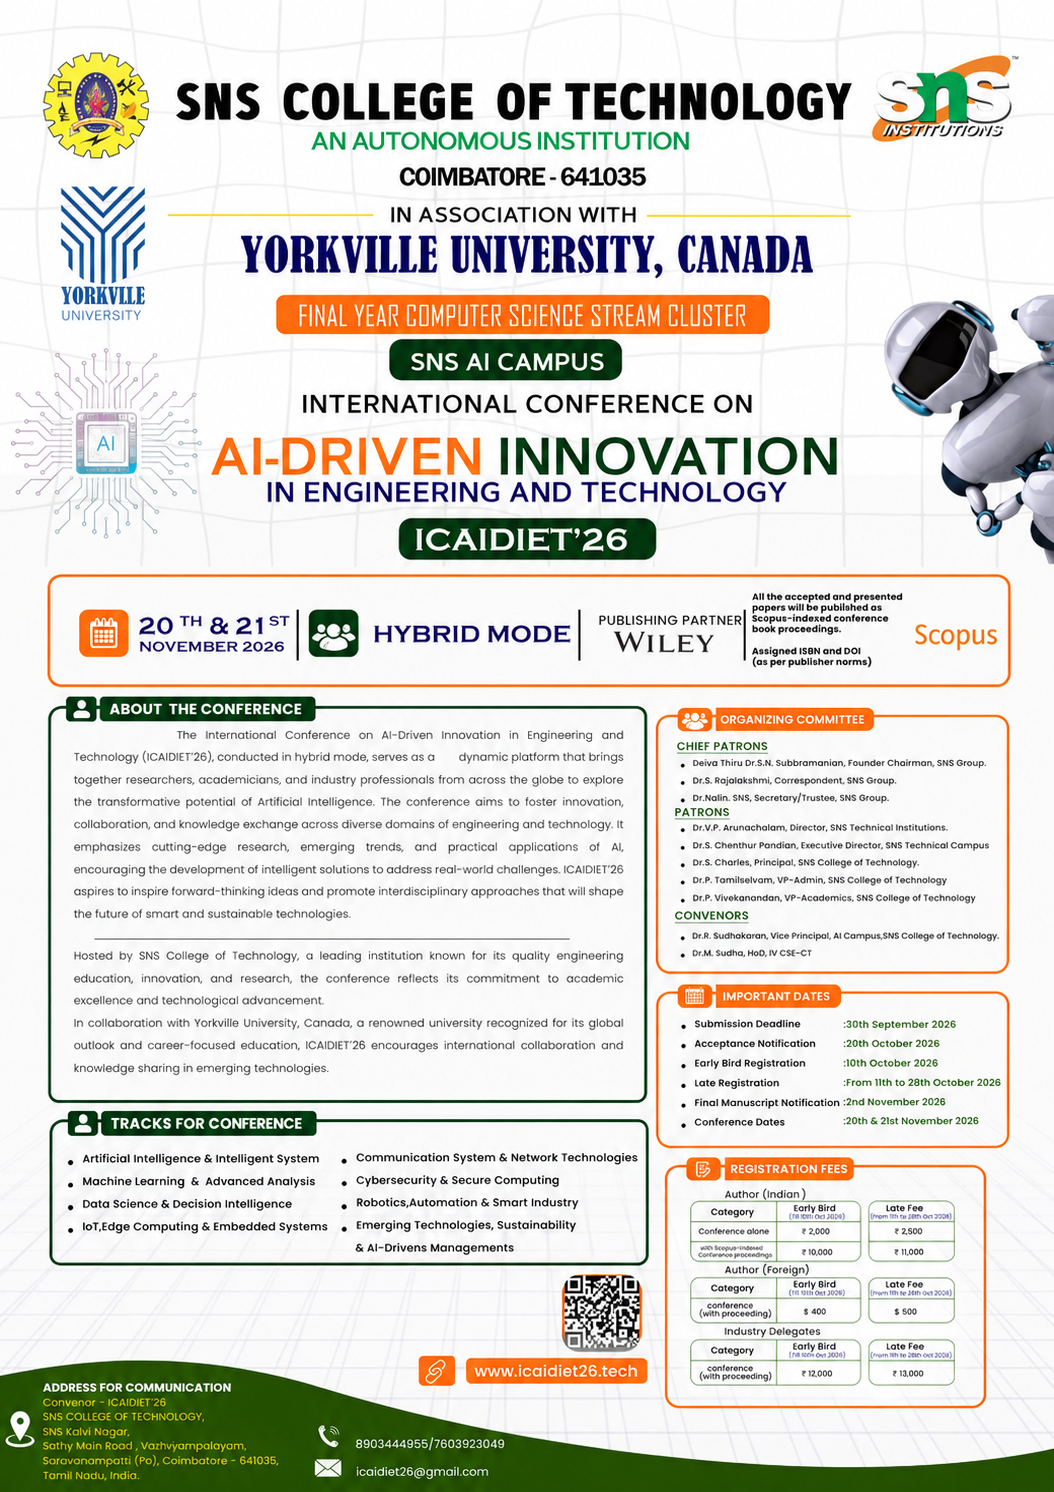
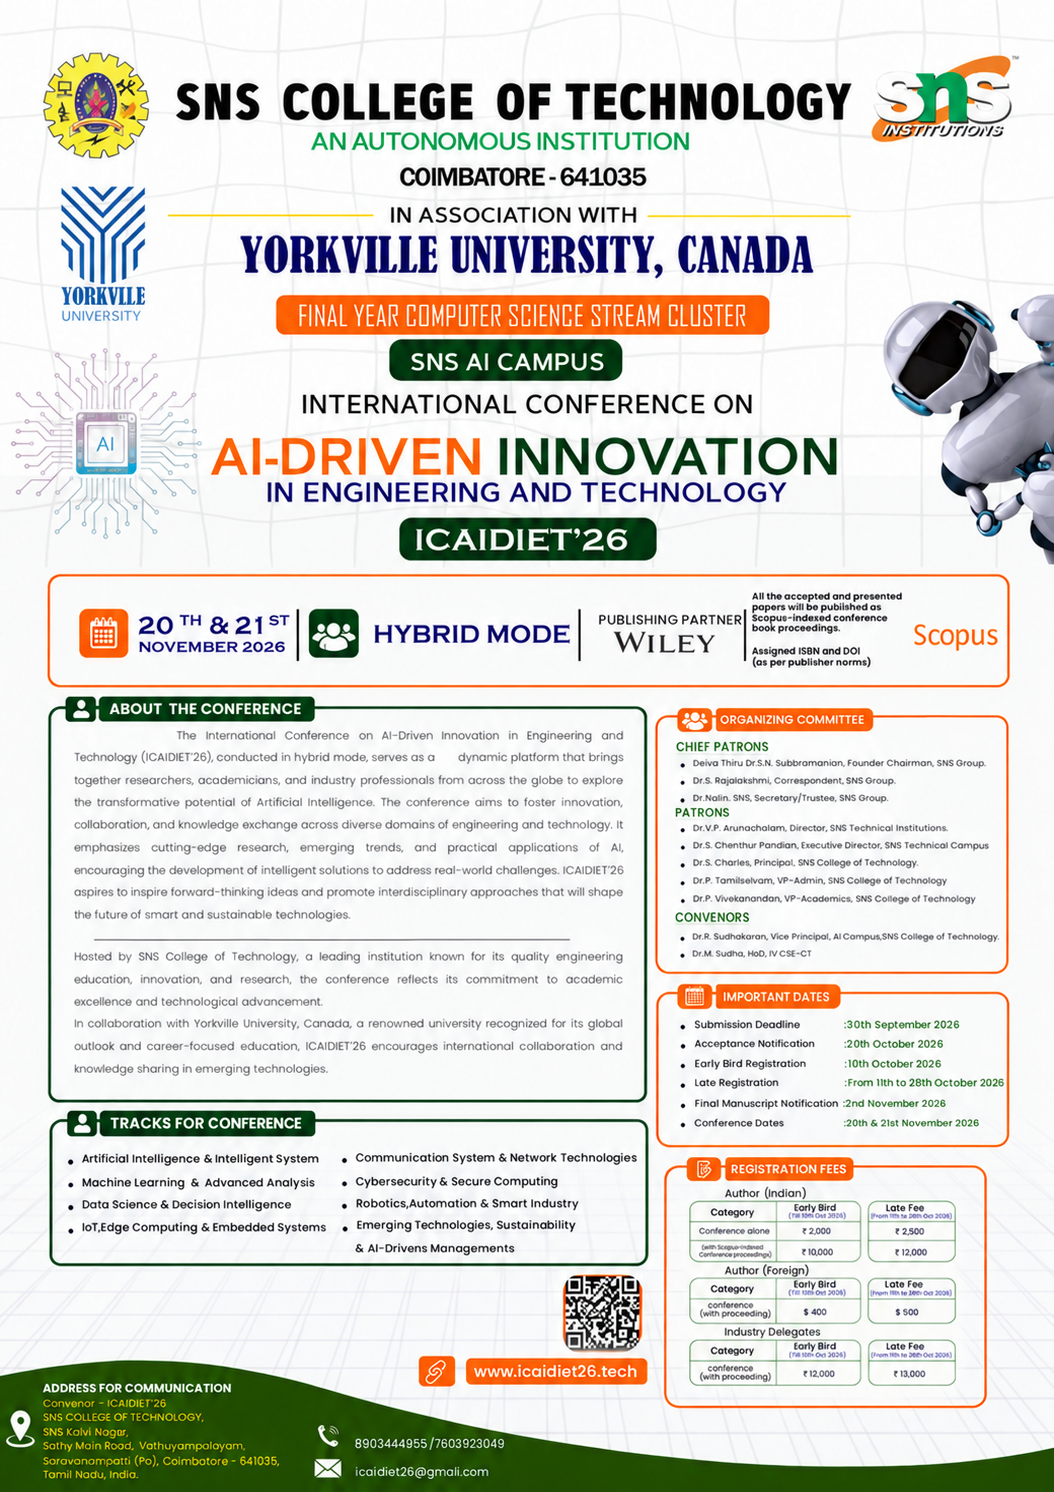
modified data.ts

diff --git a/src/data.ts b/src/data.ts
@@ -111,12 +111,12 @@ export const PRICING_TIERS: PricingTier[] = [
     category: "author",
     audience: "Indian authors presenting approved research papers",
     priceInternational: "-",
-    priceNational: "₹2,000 - ₹11,000",
+    priceNational: "₹2,000 - ₹12,000",
     features: [
       "Early Bird (Conference alone): ₹2,000",
       "Early Bird (With Scopus proceedings): ₹10,000",
       "Late Fee (Conference alone): ₹2,500",
-      "Late Fee (With Scopus proceedings): ₹11,000",
+      "Late Fee (With Scopus proceedings): ₹12,000",
     ]
   },
   {
